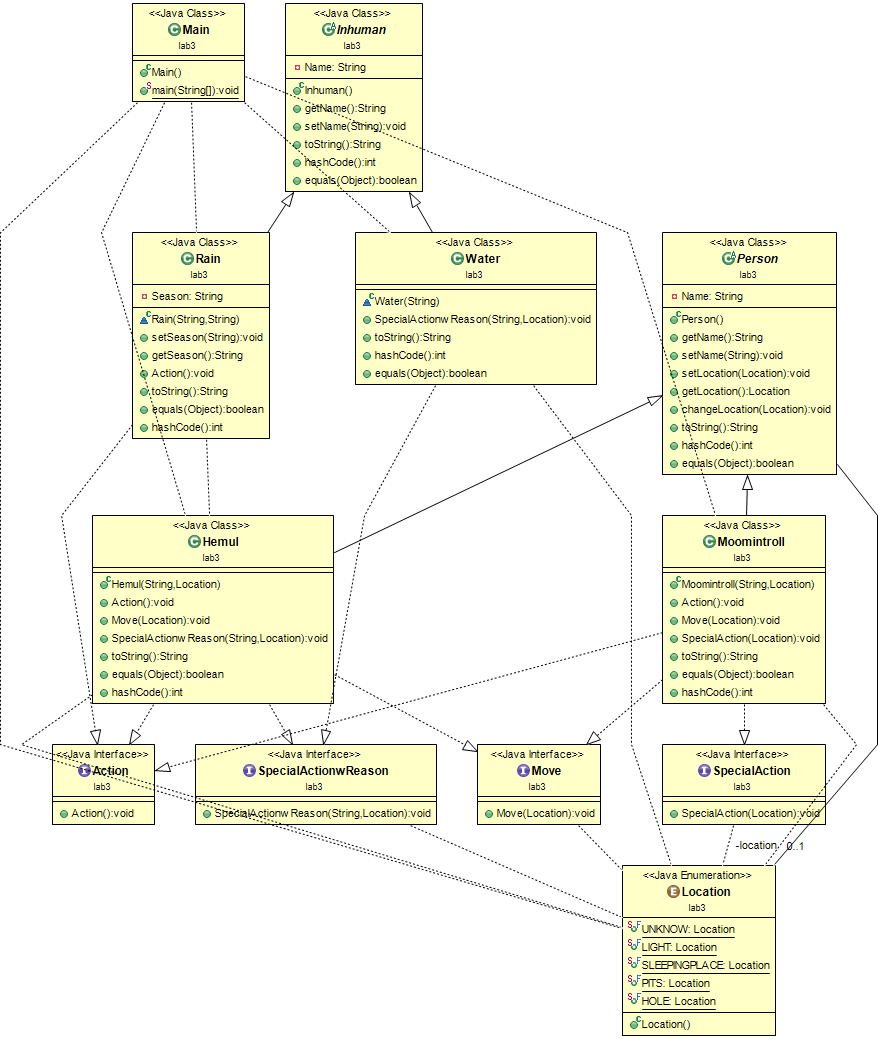
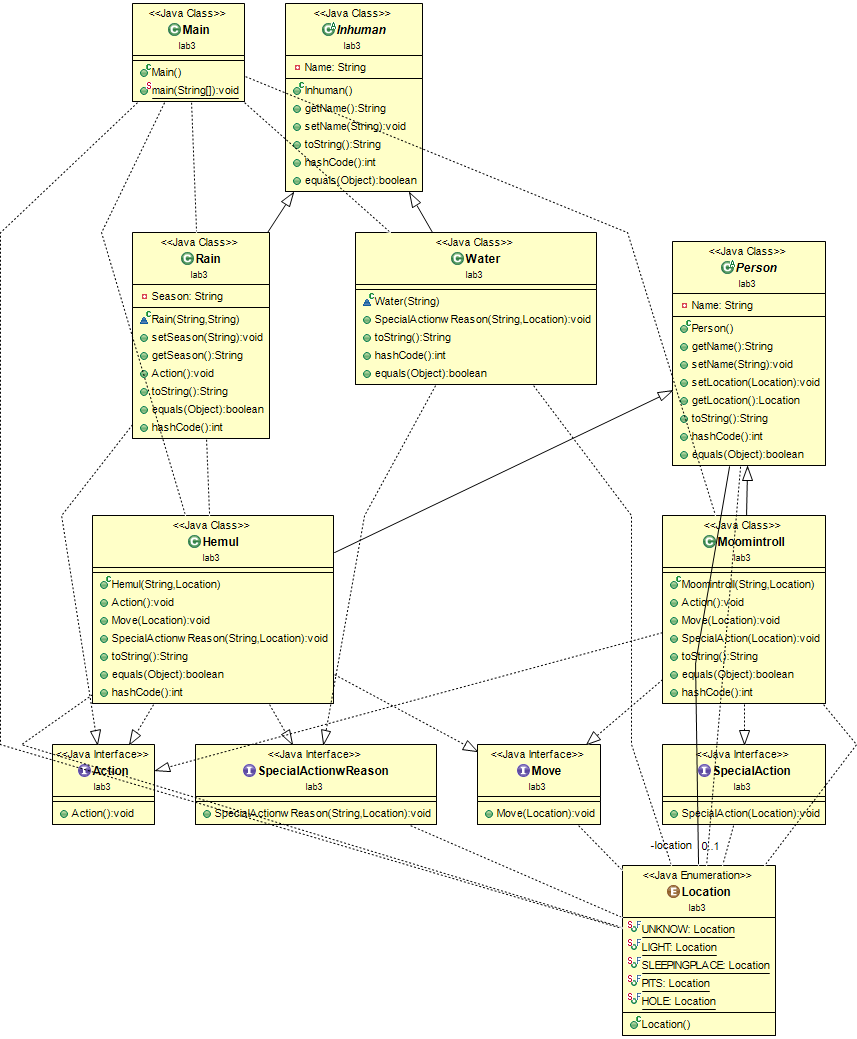
Idk this is the last upload or ..

diff --git a/lab3/src/lab3/Hemul.java b/lab3/src/lab3/Hemul.java
@@ -1,29 +1,31 @@
 package lab3;
 import java.util.Objects;
 
-public class Hemul extends Person implements Move,Action, SpecialActionwReason{
-	public Hemul (String Name, Location location)
+public class Hemul extends Person implements Move, SpecialActionwReason, Action{
+	public Hemul (String Name, Location location, Status status)
 	{
 		this.setName(Name);
 		this.setLocation(location);
+		this.setStatus(status);
 	}
-	
 	@Override
-	public void Action() {
-		System.out.println(this.getName() + " wrapped himselves in blankets");
+    public void Action(String action) {
+		System.out.println(this.getName() + " " + action);
 	}
 	@Override
 	public void Move(Location location) {
+		this.setLocation(location);
 		System.out.println(this.getName() + " went to " + location.toString());
 	}
 	@Override
 	public void SpecialActionwReason(String Reason, Location location) {
+		this.setStatus(Status.AWAKE);
 		System.out.println(this.getName() + " woke up" +  " because " + "his " + location.toString() + " " + Reason);
 	}	
 	
 	@Override
     public String toString() {
-        return "Name: " + this.getName()  + "location: " + this.getLocation();
+        return "Name: " + this.getName()  + "location: " + this.getLocation()+ "status: " + this.getStatus();
     }
 
     @Override
@@ -32,12 +34,13 @@ public class Hemul extends Person implements Move,Action, SpecialActionwReason{
         if (!(o instanceof Hemul)) return false;
         Hemul hemul = (Hemul) o;
         return Objects.equals(this.getName(), hemul.getName()) &&
-                Objects.equals(this.getLocation(), hemul.getLocation());
+                Objects.equals(this.getLocation(), hemul.getLocation()) &&
+                Objects.equals(this.getStatus(), hemul.getStatus());
     }
 
     @Override
     public int hashCode() {
-        return Objects.hash(this.getName(), this.getLocation());
+        return Objects.hash(this.getName(), this.getLocation(), this.getStatus());
     }
 
 	

diff --git a/lab3/src/lab3/Moomintroll.java b/lab3/src/lab3/Moomintroll.java
@@ -3,27 +3,30 @@ package lab3;
 import java.util.Objects;
 
 public class Moomintroll  extends Person implements Move,Action, SpecialAction{
-	public  Moomintroll(String Name, Location location)
+	public  Moomintroll(String Name, Location location, Status status)
 	{
 		this.setName(Name);
 		this.setLocation(location);
+		this.setStatus(status);
 	}
 	
 	@Override
-	public void Action() {
-		System.out.println (this.getName() + " wrapped himselves in blankets");
+    public void Action(String action) {
+		System.out.println(this.getName() + " " + action);
 	}
 	@Override
 	public void Move(Location location) {
+		this.setLocation(location);
 		System.out.println(this.getName() + " went to " + location.toString());
 	}
 	@Override
 	public void SpecialAction(Location location) {
+		this.setStatus(Status.AWAKE);
 		System.out.println (this.getName()+ "turned out the lamp and fell asleep " + location.toString());
 	}
 	@Override
     public String toString() {
-        return "Name: " + this.getName()  + "location: " + this.getLocation();
+        return "Name: " + this.getName()  + "location: " + this.getLocation()+ "status: " + this.getStatus();
     }
 
     @Override
@@ -32,12 +35,13 @@ public class Moomintroll  extends Person implements Move,Action, SpecialAction{
         if (!(o instanceof Moomintroll)) return false;
         Moomintroll moomintroll = (Moomintroll) o;
         return Objects.equals(this.getName(), moomintroll.getName()) &&
-                Objects.equals(this.getLocation(), moomintroll.getLocation());
+                Objects.equals(this.getLocation(), moomintroll.getLocation()) &&
+                Objects.equals(this.getStatus(), moomintroll.getStatus());
     }
 
     @Override
     public int hashCode() {
-        return Objects.hash(this.getName(), this.getLocation());
+        return Objects.hash(this.getName(), this.getLocation(), this.getStatus());
     }
     
 	

diff --git a/lab3/src/lab3/Main.java b/lab3/src/lab3/Main.java
@@ -3,16 +3,16 @@ package lab3;
 public class Main {
 
 	public static void main(String[] args) {
-		Hemul hemul = new Hemul("Hemul",Location.UNKNOW);
-		Moomintroll moomintroll = new Moomintroll("Moomintroll",Location.UNKNOW);
+		Hemul hemul = new Hemul("Hemul",Location.UNKNOW,Status.UNKNOW);
+		Moomintroll moomintroll = new Moomintroll("Moomintroll",Location.UNKNOW,Status.UNKNOW);
 		moomintroll.Move(Location.HOLE);
 		hemul.Move(Location.HOLE);
-		hemul.Action();
-		moomintroll.Action();
+		hemul.Action("wrapped himself in blankets");
+		moomintroll.Action("wrapped himself in blanket");
 		moomintroll.SpecialAction(Location.LIGHT);
 		hemul.SpecialActionwReason("was flooded with water",Location.SLEEPINGPLACE);
 		Rain rain = new Rain("rain","warm summer");
-		rain.Action();
+		rain.Action("rustled");
 		Water water = new Water("water");
 		water.SpecialActionwReason("as if on purpose",Location.HOLE);
 	}

diff --git a/lab3/src/lab3/Rain.java b/lab3/src/lab3/Rain.java
@@ -18,8 +18,8 @@ public class Rain extends Inhuman implements Action{
 		return this.Season;
 	}
 	@Override
-	public void Action() {
-		System.out.println(this.getSeason()+ " " + this.getName() +  " rustled");
+	public void Action(String action) {
+		System.out.println(this.getSeason()+ " " + this.getName() + " " + action);
 	}
 	@Override
     public String toString() {
@@ -29,7 +29,7 @@ public class Rain extends Inhuman implements Action{
     @Override
     public boolean equals(Object o) {
         if (this == o) return true;
-        if (!(o instanceof Hemul)) return false;
+        if (!(o instanceof Rain)) return false;
         Rain rain = (Rain) o;
         return Objects.equals(this.getName(), rain.getName()) &&
                 Objects.equals(this.getSeason(), rain.getSeason());

diff --git a/lab3/src/lab3/Person.java b/lab3/src/lab3/Person.java
@@ -4,22 +4,26 @@ import java.util.Objects;
 public abstract class Person {
 	private String Name;
 	private Location location;
+	private Status status;
     public String getName() {
         return this.Name;
     }
-
+ 
     public void setName(String name) {
         this.Name = name;
     }
 	public void setLocation(Location location) {
         this.location = location;
     }
-
     public Location getLocation() {
         return this.location;
     }
-    public void changeLocation(Location location) {
-        this.location = location;
+    public void setStatus(Status status)
+    {
+    	this.status = status;
+    }
+    public Status getStatus() {
+    	return this.status;
     }
     @Override
     public String toString() {

diff --git a/lab3/src/lab3/Action.java b/lab3/src/lab3/Action.java
@@ -1,5 +1,5 @@
 package lab3;
 
 public interface Action {
-	void Action();
+	void Action(String action);
 }
